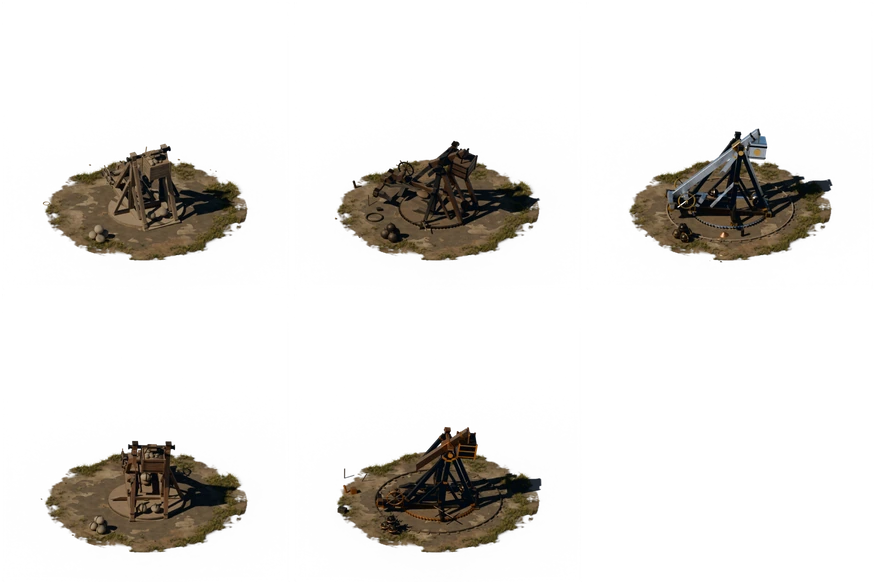
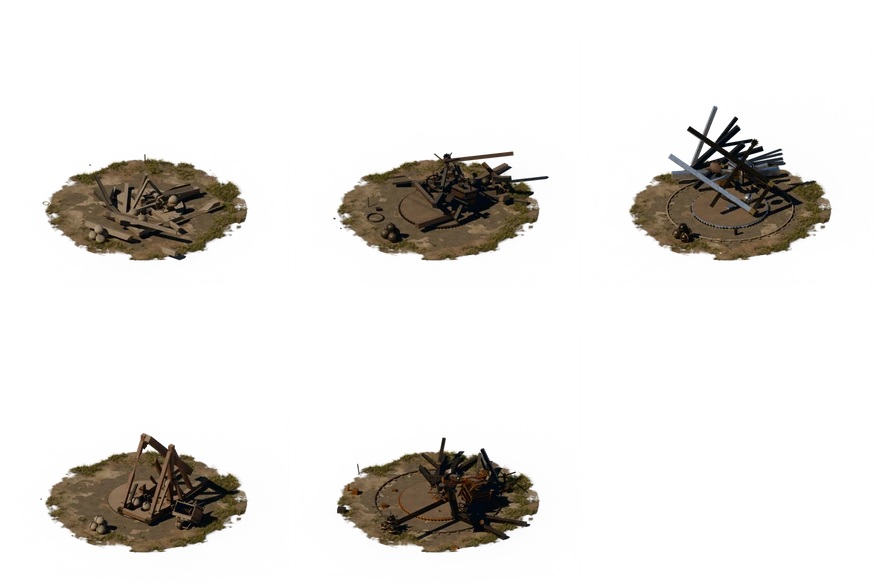
art: gun wrecks break into chunks that lie on their most stable side, with parts missing
Claude-Session: https://claude.ai/code/session_01RjoRvJnVjVFTKFCatVx85i

diff --git a/art/pipeline/strelite_art/damage.py b/art/pipeline/strelite_art/damage.py
@@ -31,7 +31,7 @@ import random
 
 import bmesh
 import bpy
-from mathutils import Matrix, Vector
+from mathutils import Matrix, Quaternion, Vector
 
 from .geo import Kit
 
@@ -270,6 +270,78 @@ def _boolean(obj, cutter):
         m.use_hole_tolerant = True
     except AttributeError:
         pass
+
+
+def _hull_proxy(parts):
+    """One invisible mesh holding every vertex of `parts` in world space, to simulate them as one
+    rigid body (its convex hull) and then move the real parts by the same transform."""
+    bpy.context.view_layer.update()
+    dg = bpy.context.evaluated_depsgraph_get()
+    bm = bmesh.new()
+    for o in parts:
+        me = bpy.data.meshes.new_from_object(o.evaluated_get(dg))
+        me.transform(o.matrix_world)
+        bm.from_mesh(me)
+        bpy.data.meshes.remove(me)
+    c = sum((v.co for v in bm.verts), Vector()) / max(1, len(bm.verts))
+    bmesh.ops.translate(bm, verts=bm.verts, vec=-c)
+    me = bpy.data.meshes.new("turret_proxy")
+    bm.to_mesh(me)
+    bm.free()
+    obj = bpy.data.objects.new("turret_proxy", me)
+    bpy.context.scene.collection.objects.link(obj)
+    obj.location = c
+    obj.hide_render = True
+    bpy.context.view_layer.update()
+    d = obj.dimensions
+    obj["rb_mass"] = max(1.0, d.x * d.y * d.z * 0.5)
+    obj["rb_damping"] = 0.6
+    return obj
+
+
+def _stable_rest(obj, rnd, com=None):
+    """Rotation (quaternion, object space) that sets `obj` down on its most stable face: of the
+    convex hull's faces whose plane holds the centre of mass inside the face, the one nearest to
+    it. Faces within 5 cm of the best are taken at random, so wrecks of one gun differ."""
+    bm = bmesh.new()
+    bm.from_mesh(obj.data)
+    hull = bmesh.ops.convex_hull(bm, input=bm.verts[:])
+    bmesh.ops.delete(bm, geom=[v for v in hull["geom_interior"] + hull["geom_unused"]
+                               if isinstance(v, bmesh.types.BMVert) and v.is_valid], context="VERTS")
+    bmesh.ops.dissolve_limit(bm, angle_limit=math.radians(3), verts=bm.verts[:], edges=bm.edges[:])
+    bm.normal_update()
+    # centre of mass of the solid hull
+    vol, com_h = 0.0, Vector()
+    bm.verts.ensure_lookup_table()
+    o = bm.verts[0].co.copy() if bm.verts else Vector()
+    for f in bm.faces:
+        vs = [v.co for v in f.verts]
+        for i in range(1, len(vs) - 1):
+            v6 = (vs[0] - o).dot((vs[i] - o).cross(vs[i + 1] - o))
+            vol += v6
+            com_h += v6 * (o + vs[0] + vs[i] + vs[i + 1]) / 4
+    if com is None:
+        com = com_h / vol if abs(vol) > 1e-9 else sum((v.co for v in bm.verts), Vector()) / max(1, len(bm.verts))
+    rests = []
+    for f in bm.faces:
+        n = f.normal.normalized()
+        d = (com - f.verts[0].co).dot(n)          # negative: the centre is inside the hull
+        p = com - n * d                           # the centre dropped onto the face plane
+        inside = True
+        for e in f.edges:
+            a, b = e.verts[0].co, e.verts[1].co
+            if (b - a).cross(p - a).dot(n) * (b - a).cross(f.calc_center_median() - a).dot(n) < 0:
+                inside = False
+                break
+        if inside and f.calc_area() > 1e-4:
+            rests.append((abs(d), n))
+    bm.free()
+    if not rests:
+        return Quaternion()
+    rests.sort(key=lambda r: r[0])
+    best = [r for r in rests if r[0] < rests[0][0] + 0.05]
+    _, n = rnd.choice(best)
+    return n.rotation_difference(Vector((0, 0, -1)))
 
 
 def _bake_modifiers(objs):
@@ -678,9 +750,121 @@ def apply(scene, state, seed=1, footprint=4.0, hit=None, tilt=None, style="photo
                     debris.remove(o)
                 bpy.data.objects.remove(o)
 
+    # --- a wrecked gun is broken into a few chunks that each fall on their most stable side;
+    #     one chunk and part of the small pieces are gone (blown away) ---------------------
+    proxies = []                                # (proxy, start matrix, parts)
+    turret_parts = []
+    if state == "wreck" and tilt is not None and tilt[0].name in bpy.data.objects:
+        dset = set(debris)
+        turret_parts = [o for o in tilt[0].children_recursive
+                        if o.type == "MESH" and o.name in bpy.data.objects and o not in dset
+                        and not o.hide_render and o.data.polygons]
+        tset = set(turret_parts)
+        tb = [b for b in (_world_bbox(o) for o in turret_parts) if b is not None]
+        tlo = Vector((min(b[0].x for b in tb) - 0.3, min(b[0].y for b in tb) - 0.3, 0)) if tb else None
+        thi = Vector((max(b[1].x for b in tb) + 0.3, max(b[1].y for b in tb) + 0.3, 0)) if tb else None
+        for o in list(scene.objects) if tb else []:   # the timber or metal stand goes too; masonry stays
+            if (o.type != "MESH" or o in tset or o in dset or o.get("terrain") or o.hide_render
+                    or o.name.startswith(KEEP) or not o.data.polygons or not o.data.materials):
+                continue
+            b = _world_bbox(o)
+            mat = _mat_name(o)
+            if (b is not None and b[1].z > 0.6 and not any(s_ in mat for s_ in STONE)
+                    and b[0].x > tlo.x and b[1].x < thi.x and b[0].y > tlo.y and b[1].y < thi.y):
+                turret_parts.append(o)
+        for o in turret_parts:
+            _unparent(o)
+        bpy.context.view_layer.update()
+        boxes_t = {o: _world_bbox(o) for o in turret_parts}
+
+        def _w(o):
+            d = o.dimensions
+            return max(1e-6, d.x * d.y * d.z)
+
+        def _ctr(o):
+            return (boxes_t[o][0] + boxes_t[o][1]) / 2
+
+        # k chunks by weighted k-means on part centres
+        k_n = max(3, min(5, round(len(turret_parts) / 12))) if len(turret_parts) >= 6 else 1
+        cents = [_ctr(o) for o in rnd.sample(turret_parts, k_n)]
+        for _ in range(12):
+            lab = {o: min(range(k_n), key=lambda i: (_ctr(o) - cents[i]).length) for o in turret_parts}
+            for i in range(k_n):
+                mem = [o for o in turret_parts if lab[o] == i]
+                if mem:
+                    ws = sum(_w(o) for o in mem)
+                    cents[i] = sum((_ctr(o) * _w(o) for o in mem), Vector()) / ws
+        pad = 0.03
+
+        def _touch(a_, b_):
+            return all(a_[0][i] - pad < b_[1][i] and b_[0][i] - pad < a_[1][i] for i in range(3))
+
+        chunks, loose = [], []
+        total = sum(_w(o) for o in turret_parts)
+        for i in range(k_n):                    # each chunk splits again where nothing holds it together
+            left = {o for o in turret_parts if lab[o] == i}
+            while left:
+                s0 = left.pop()
+                grp, stack = [s0], [s0]
+                while stack:
+                    cur = stack.pop()
+                    near = [o for o in left if _touch(boxes_t[cur], boxes_t[o])]
+                    for o in near:
+                        left.discard(o)
+                        grp.append(o)
+                        stack.append(o)
+                if sum(_w(o) for o in grp) > 0.03 * total and len(grp) > 1:
+                    chunks.append(grp)
+                else:
+                    loose.extend(grp)
+        chunks.sort(key=lambda g: -sum(_w(o) for o in g))
+        if len(chunks) >= 3 and rnd.random() < 0.85:        # one chunk blown away entirely
+            gone_c = chunks.pop(rnd.randrange(1, len(chunks)))
+            for o in gone_c:
+                bpy.data.objects.remove(o)
+        rnd.shuffle(loose)
+        for o in loose[: int(len(loose) * 0.4)]:            # and part of the small pieces
+            bpy.data.objects.remove(o)
+        loose = loose[int(len(loose) * 0.4):]
+        debris.extend(loose)
+        turret_parts = [o for g in chunks for o in g]
+        dset = set(debris)
+        pset = set(turret_parts) | dset
+        standing = [b for b in (_world_bbox(o) for o in scene.objects
+                                if o.type == "MESH" and o not in pset and not o.get("terrain")
+                                and not o.hide_render and o.data.vertices) if b is not None and b[1].z > 0.3]
+        away = Vector((-hit.x, -hit.y, 0))
+        away = away.normalized() if away.length > 1e-3 else Vector((1, 0, 0))
+        for g in chunks:
+            proxy = _hull_proxy(g)
+            start = proxy.matrix_world.copy()
+            wsum = sum(_w(o) for o in g)
+            com = sum((_ctr(o) * _w(o) for o in g), Vector()) / wsum
+            q = _stable_rest(proxy, rnd, com - proxy.location)
+            proxy.rotation_mode = "QUATERNION"
+            proxy.rotation_quaternion = Quaternion((0, 0, 1), rnd.uniform(0, 2 * math.pi)) @ q
+            bpy.context.view_layer.update()
+            lo, hi = _world_bbox(proxy)
+            ang = rnd.uniform(0, 2 * math.pi)
+            d = (away * rnd.uniform(0.2, 0.9) + Vector((math.cos(ang), math.sin(ang), 0)) * rnd.uniform(0.2, 0.9))
+            proxy.location += Vector((d.x, d.y, -lo.z + 0.03))
+            bpy.context.view_layer.update()
+            step = Vector((d.x, d.y, 0)).normalized() if d.length > 1e-3 else away
+            for _ in range(12):                  # slide clear of what stands and of chunks already down
+                lo, hi = _world_bbox(proxy)
+                if not any(b[0].x < hi.x and b[1].x > lo.x and b[0].y < hi.y and b[1].y > lo.y for b in standing):
+                    break
+                if (proxy.location.xy + step.xy * 0.2).length > footprint * 0.7:
+                    break
+                proxy.location += step * 0.2
+                bpy.context.view_layer.update()
+            standing.append(_world_bbox(proxy))
+            proxies.append((proxy, start, g))
+            debris.append(proxy)
+
     # --- let it fall -------------------------------------------------------------------
     active = [o for o in debris if o.name in bpy.data.objects]
-    aset = set(active)
+    aset = set(active) | set(turret_parts)
     reach = (R + 4.0) if state != "rubble" else footprint * 2
     passive = []
     for o in scene.objects:
@@ -699,7 +883,31 @@ def apply(scene, state, seed=1, footprint=4.0, hit=None, tilt=None, style="photo
         blast = (hit - Vector((0.6, -0.6, 0.2)), 14.0, R * 1.5)
     elif state == "wreck":
         blast = (hit * 0.6, 40.0, R * 2.0)
-    _simulate(scene, active, passive, blast=blast, frames=frames)
+    for proxy, _, _ in proxies:                # start clear of the mount it stood on, so Bullet does not eject it
+        plo, phi = _world_bbox(proxy)
+        top = None
+        for o in passive:
+            b = _world_bbox(o)
+            if b is None or b[1].z < plo.z:
+                continue
+            if b[0].x < phi.x and b[1].x > plo.x and b[0].y < phi.y and b[1].y > plo.y and b[0].z < phi.z:
+                top = b[1].z if top is None else max(top, b[1].z)
+        if top is not None:
+            proxy.location.z += min(2.5, top - plo.z + 0.03)
+            bpy.context.view_layer.update()
+    placed = {proxy: proxy.matrix_world.copy() for proxy, _, _ in proxies}
+    _simulate(scene, active, passive, blast=blast, frames=frames if not proxies else max(frames, 110))
+    for proxy, start, g in proxies:
+        end = proxy.matrix_world
+        if ((end.translation.xy - placed[proxy].translation.xy).length > 1.0
+                or end.translation.xy.length > footprint * 0.8):
+            end = placed[proxy]                 # thrown off by a bad contact: keep the pose it was set down in
+        delta = end @ start.inverted()
+        for o in g:
+            o.matrix_world = delta @ o.matrix_world
+        active.remove(proxy)
+        bpy.data.objects.remove(proxy)
+    bpy.context.view_layer.update()
     for o in active:                            # anything that fell through or flew off the patch
         if o.name not in bpy.data.objects:
             continue

diff --git a/art/SOP.md b/art/SOP.md
@@ -455,6 +455,7 @@ Built so far: `hq`, `lab`, `muster` (Военно свикване; its mark is 
 
 - The destroyed region is a lumpy blob (`damaged`: the upper front-right corner, the roof above it falls in so light reaches the room; `wreck`: a blast on one side of a gun) or a noisy height field (`rubble`: ragged stumps, one corner left higher). Pieces under 1.5 m (blocks, planks, shingles, panels, gun parts) come out whole when their centre is inside, so masonry breaks along its joints; bigger pieces are cut by the same shape with a boolean. Hidden layers (mortar, decks) are cut a little wider so they never show.
 - The pieces taken out are the debris: stone blocks split two or three times along random planes, planks and beams snap with slanted ends, plus gravel and broken rafters. Only part of it stays (about half for `damaged`, 40% for `rubble`, 60% for `wreck`): a ruin has lost material that was carried off, burnt or blown away, so never keep 100%. Everything falls under Bullet rigid bodies (`_simulate`, with a short outward blast for `damaged` and `wreck`) onto a ragged dust bed, the floor and the remaining walls. The inner `core` is removed so the room shows through the breach.
+- A wrecked gun never stays standing or balanced: the gun and its timber or metal stand (masonry stays) are split into 3 to 5 chunks (k-means on part centres, then split again where nothing touches). One chunk and 40% of the small pieces are gone. Each chunk is set down on its most stable face (`_stable_rest`: the convex hull face that puts the real centre of mass lowest), thrown a little away from the blast and clear of the pedestal, then settles with the debris.
 - Soot fades out from the hit (`stone_soot`, `timber_charred`, `paint_soot`). `occupied` = `damage.occupy()` then `damaged`.
 - A model with contents that must not be cut defines `damage_hook(scene, state, info, phase)`; the treasury rebuilds its gold and returns the coins, which fall with the debris.
 - Loose small things (coins) are always dropped with physics and settle on a low solid body, never laid on a surface or made as one flowing mesh.
